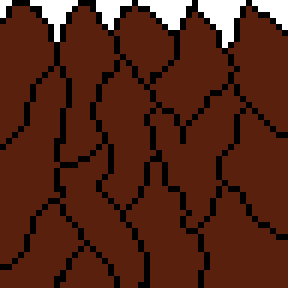
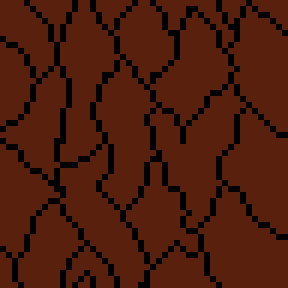
adds mountain and mountain peak to demo game

diff --git a/data/screen.py b/data/screen.py
@@ -89,8 +89,8 @@ tiles = [
   Tile('./assets/Tiles/sand.png'),
   Tile('./assets/Tiles/sand.png'),
   Tile('./assets/Tiles/sand.png'),
-  Tile('./assets/Tiles/sand.png', './assets/Tiles/mountain.png', hitbox_active, {"x": 0, "y": 0, "width": 50, "height": 50}, {"x": 0, "y": 0, "width": 1, "height": 1}, hitbox_visible),
-  Tile('./assets/Tiles/sand.png', './assets/Tiles/mountain.png', hitbox_active, {"x": 0, "y": 0, "width": 50, "height": 50}, {"x": 0, "y": 0, "width": 1, "height": 1}, hitbox_visible),
+  Tile('./assets/Tiles/sand.png', './assets/Tiles/mountainPeak.png', hitbox_active, {"x": 0, "y": 0, "width": 50, "height": 50}, {"x": 0, "y": 0, "width": 1, "height": 1}, hitbox_visible),
+  Tile('./assets/Tiles/sand.png', './assets/Tiles/mountainPeak.png', hitbox_active, {"x": 0, "y": 0, "width": 50, "height": 50}, {"x": 0, "y": 0, "width": 1, "height": 1}, hitbox_visible),
   Tile('./assets/Tiles/sand.png'),
   Tile('./assets/Tiles/sand.png'),
   Tile('./assets/Tiles/sand.png'),
@@ -125,7 +125,7 @@ tiles = [
   Tile('./assets/Tiles/sand.png'),
   Tile('./assets/Tiles/sand.png'),
   Tile('./assets/Tiles/sand.png'),
-  Tile('./assets/Tiles/sand.png', './assets/Tiles/mountain.png', hitbox_active, {"x": 0, "y": 0, "width": 50, "height": 50}, {"x": 0, "y": 0, "width": 1, "height": 1}, hitbox_visible),
+  Tile('./assets/Tiles/sand.png', './assets/Tiles/mountainPeak.png', hitbox_active, {"x": 0, "y": 0, "width": 50, "height": 50}, {"x": 0, "y": 0, "width": 1, "height": 1}, hitbox_visible),
   Tile('./assets/Tiles/sand.png', './assets/Tiles/mountain.png', hitbox_active, {"x": 0, "y": 0, "width": 50, "height": 50}, {"x": 0, "y": 0, "width": 1, "height": 1}, hitbox_visible),
   Tile('./assets/Tiles/sand.png'),
   Tile('./assets/Tiles/sand.png'),
@@ -151,19 +151,19 @@ tiles = [
   
   #Row 9
   Tile('./assets/Tiles/sand.png', './assets/Tiles/mountain.png', hitbox_active, {"x": 0, "y": 0, "width": 50, "height": 50}, {"x": 0, "y": 0, "width": 1, "height": 1}, hitbox_visible),
-  Tile('./assets/Tiles/sand.png', './assets/Tiles/mountain.png', hitbox_active, {"x": 0, "y": 0, "width": 50, "height": 50}, {"x": 0, "y": 0, "width": 1, "height": 1}, hitbox_visible),
-  Tile('./assets/Tiles/sand.png', './assets/Tiles/mountain.png', hitbox_active, {"x": 0, "y": 0, "width": 50, "height": 50}, {"x": 0, "y": 0, "width": 1, "height": 1}, hitbox_visible),
-  Tile('./assets/Tiles/sand.png', './assets/Tiles/mountain.png', hitbox_active, {"x": 0, "y": 0, "width": 50, "height": 50}, {"x": 0, "y": 0, "width": 1, "height": 1}, hitbox_visible),
-  Tile('./assets/Tiles/sand.png', './assets/Tiles/mountain.png', hitbox_active, {"x": 0, "y": 0, "width": 50, "height": 50}, {"x": 0, "y": 0, "width": 1, "height": 1}, hitbox_visible),
-  Tile('./assets/Tiles/sand.png', './assets/Tiles/mountain.png', hitbox_active, {"x": 0, "y": 0, "width": 50, "height": 50}, {"x": 0, "y": 0, "width": 1, "height": 1}, hitbox_visible),
-  Tile('./assets/Tiles/sand.png', './assets/Tiles/mountain.png', hitbox_active, {"x": 0, "y": 0, "width": 50, "height": 50}, {"x": 0, "y": 0, "width": 1, "height": 1}, hitbox_visible),
-  Tile('./assets/Tiles/sand.png', './assets/Tiles/mountain.png', hitbox_active, {"x": 0, "y": 0, "width": 50, "height": 50}, {"x": 0, "y": 0, "width": 1, "height": 1}, hitbox_visible),
-  Tile('./assets/Tiles/sand.png', './assets/Tiles/mountain.png', hitbox_active, {"x": 0, "y": 0, "width": 50, "height": 50}, {"x": 0, "y": 0, "width": 1, "height": 1}, hitbox_visible),
-  Tile('./assets/Tiles/sand.png', './assets/Tiles/mountain.png', hitbox_active, {"x": 0, "y": 0, "width": 50, "height": 50}, {"x": 0, "y": 0, "width": 1, "height": 1}, hitbox_visible),
-  Tile('./assets/Tiles/sand.png', './assets/Tiles/mountain.png', hitbox_active, {"x": 0, "y": 0, "width": 50, "height": 50}, {"x": 0, "y": 0, "width": 1, "height": 1}, hitbox_visible),
-  Tile('./assets/Tiles/sand.png', './assets/Tiles/mountain.png', hitbox_active, {"x": 0, "y": 0, "width": 50, "height": 50}, {"x": 0, "y": 0, "width": 1, "height": 1}, hitbox_visible),
-  Tile('./assets/Tiles/sand.png', './assets/Tiles/mountain.png', hitbox_active, {"x": 0, "y": 0, "width": 50, "height": 50}, {"x": 0, "y": 0, "width": 1, "height": 1}, hitbox_visible),
-  Tile('./assets/Tiles/sand.png', './assets/Tiles/mountain.png', hitbox_active, {"x": 0, "y": 0, "width": 50, "height": 50}, {"x": 0, "y": 0, "width": 1, "height": 1}, hitbox_visible),
-  Tile('./assets/Tiles/sand.png', './assets/Tiles/mountain.png', hitbox_active, {"x": 0, "y": 0, "width": 50, "height": 50}, {"x": 0, "y": 0, "width": 1, "height": 1}, hitbox_visible),
-  Tile('./assets/Tiles/sand.png', './assets/Tiles/mountain.png', hitbox_active, {"x": 0, "y": 0, "width": 50, "height": 50}, {"x": 0, "y": 0, "width": 1, "height": 1}, hitbox_visible)
+  Tile('./assets/Tiles/sand.png', './assets/Tiles/mountainPeak.png', hitbox_active, {"x": 0, "y": 0, "width": 50, "height": 50}, {"x": 0, "y": 0, "width": 1, "height": 1}, hitbox_visible),
+  Tile('./assets/Tiles/sand.png', './assets/Tiles/mountainPeak.png', hitbox_active, {"x": 0, "y": 0, "width": 50, "height": 50}, {"x": 0, "y": 0, "width": 1, "height": 1}, hitbox_visible),
+  Tile('./assets/Tiles/sand.png', './assets/Tiles/mountainPeak.png', hitbox_active, {"x": 0, "y": 0, "width": 50, "height": 50}, {"x": 0, "y": 0, "width": 1, "height": 1}, hitbox_visible),
+  Tile('./assets/Tiles/sand.png', './assets/Tiles/mountainPeak.png', hitbox_active, {"x": 0, "y": 0, "width": 50, "height": 50}, {"x": 0, "y": 0, "width": 1, "height": 1}, hitbox_visible),
+  Tile('./assets/Tiles/sand.png', './assets/Tiles/mountainPeak.png', hitbox_active, {"x": 0, "y": 0, "width": 50, "height": 50}, {"x": 0, "y": 0, "width": 1, "height": 1}, hitbox_visible),
+  Tile('./assets/Tiles/sand.png', './assets/Tiles/mountainPeak.png', hitbox_active, {"x": 0, "y": 0, "width": 50, "height": 50}, {"x": 0, "y": 0, "width": 1, "height": 1}, hitbox_visible),
+  Tile('./assets/Tiles/sand.png', './assets/Tiles/mountainPeak.png', hitbox_active, {"x": 0, "y": 0, "width": 50, "height": 50}, {"x": 0, "y": 0, "width": 1, "height": 1}, hitbox_visible),
+  Tile('./assets/Tiles/sand.png', './assets/Tiles/mountainPeak.png', hitbox_active, {"x": 0, "y": 0, "width": 50, "height": 50}, {"x": 0, "y": 0, "width": 1, "height": 1}, hitbox_visible),
+  Tile('./assets/Tiles/sand.png', './assets/Tiles/mountainPeak.png', hitbox_active, {"x": 0, "y": 0, "width": 50, "height": 50}, {"x": 0, "y": 0, "width": 1, "height": 1}, hitbox_visible),
+  Tile('./assets/Tiles/sand.png', './assets/Tiles/mountainPeak.png', hitbox_active, {"x": 0, "y": 0, "width": 50, "height": 50}, {"x": 0, "y": 0, "width": 1, "height": 1}, hitbox_visible),
+  Tile('./assets/Tiles/sand.png', './assets/Tiles/mountainPeak.png', hitbox_active, {"x": 0, "y": 0, "width": 50, "height": 50}, {"x": 0, "y": 0, "width": 1, "height": 1}, hitbox_visible),
+  Tile('./assets/Tiles/sand.png', './assets/Tiles/mountainPeak.png', hitbox_active, {"x": 0, "y": 0, "width": 50, "height": 50}, {"x": 0, "y": 0, "width": 1, "height": 1}, hitbox_visible),
+  Tile('./assets/Tiles/sand.png', './assets/Tiles/mountainPeak.png', hitbox_active, {"x": 0, "y": 0, "width": 50, "height": 50}, {"x": 0, "y": 0, "width": 1, "height": 1}, hitbox_visible),
+  Tile('./assets/Tiles/sand.png', './assets/Tiles/mountainPeak.png', hitbox_active, {"x": 0, "y": 0, "width": 50, "height": 50}, {"x": 0, "y": 0, "width": 1, "height": 1}, hitbox_visible),
+  Tile('./assets/Tiles/sand.png', './assets/Tiles/mountainPeak.png', hitbox_active, {"x": 0, "y": 0, "width": 50, "height": 50}, {"x": 0, "y": 0, "width": 1, "height": 1}, hitbox_visible)
 ]

diff --git a/classes/entities/Tile.py b/classes/entities/Tile.py
@@ -31,14 +31,14 @@ class Tile():
   def draw_foreground(self, screen, surface, x, y):
     if self._foreground_image:
       scaled_foreground_image = pygame.transform.scale(
-        self._foreground_image, (screen._tile_width, screen._tile_height + 15)
+        self._foreground_image, (screen._tile_width, screen._tile_height + 0)
       )
-      surface.blit(scaled_foreground_image, (x, y - 15))
+      surface.blit(scaled_foreground_image, (x, y - 0))
 
     self._hitbox.x = x + screen._tile_width * self._hitbox.offset["x"]
-    self._hitbox.y = y + (screen._tile_height * self._hitbox.offset["y"]) - 15
+    self._hitbox.y = y + (screen._tile_height * self._hitbox.offset["y"]) - 0
     self._hitbox.width = screen._tile_width * self._hitbox.offset["width"]
-    self._hitbox.height = (screen._tile_height + 15) * self._hitbox.offset["height"]
+    self._hitbox.height = (screen._tile_height + 0) * self._hitbox.offset["height"]
     self._hitbox.draw(surface)
 
     
